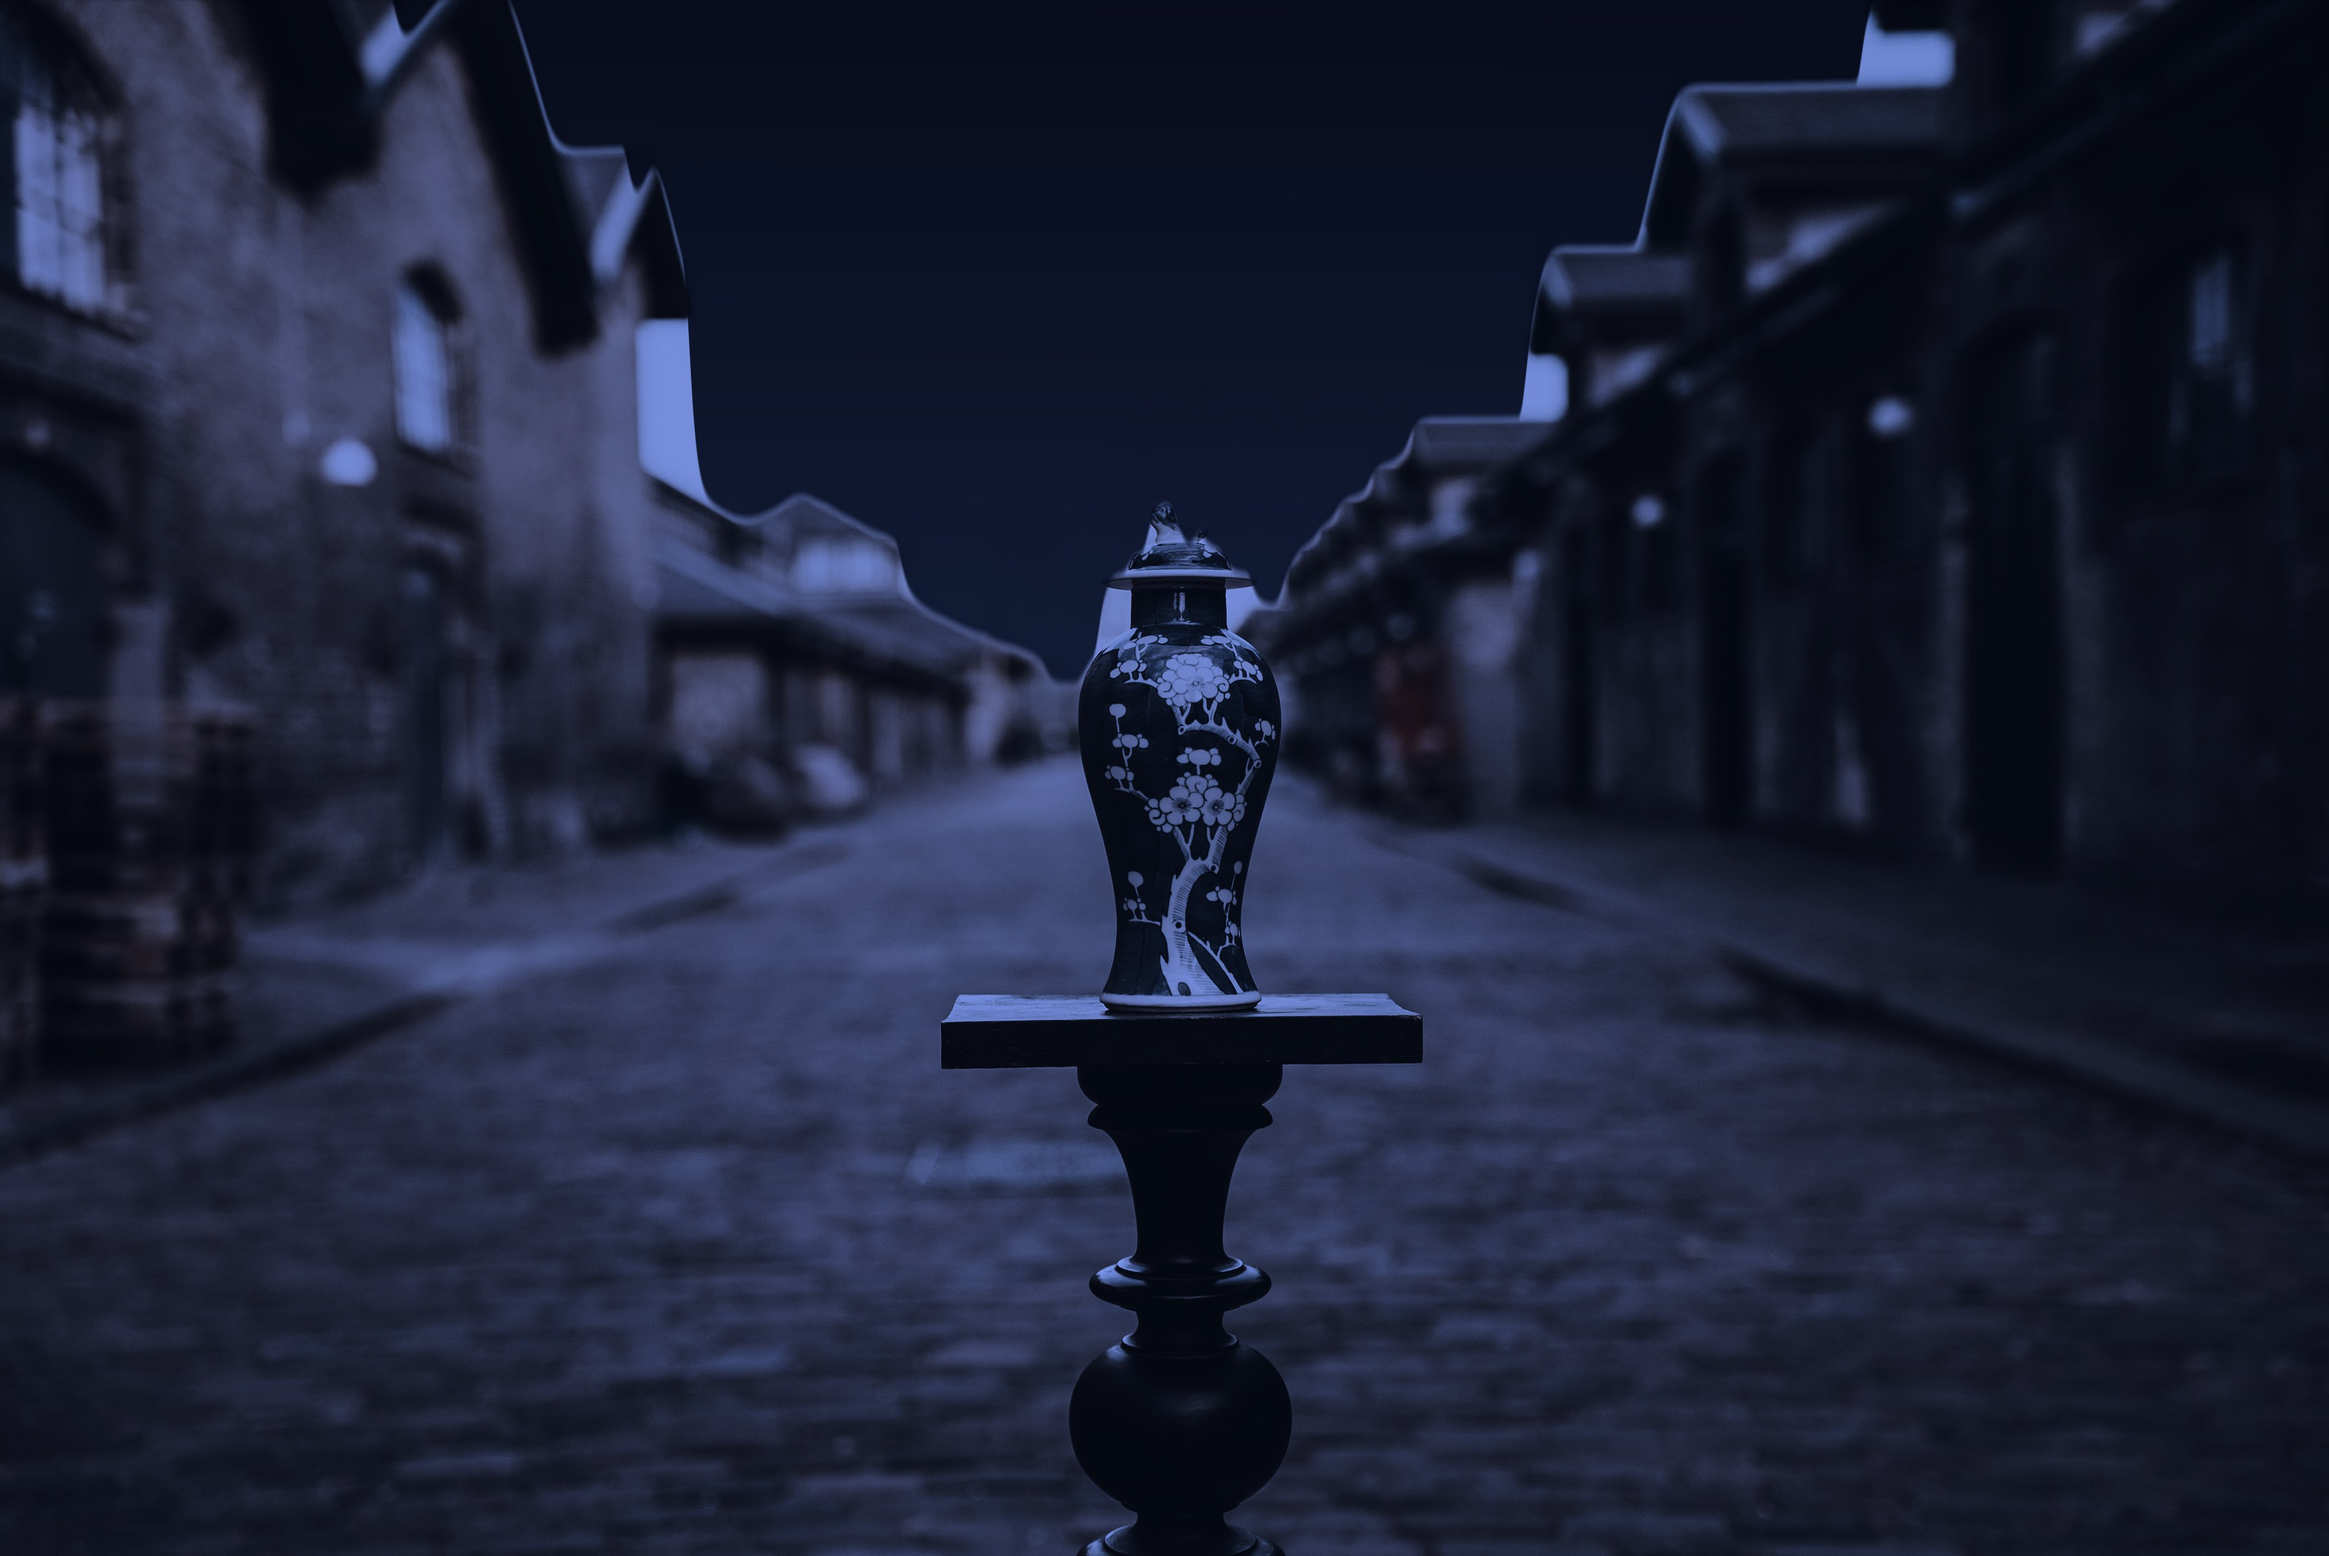
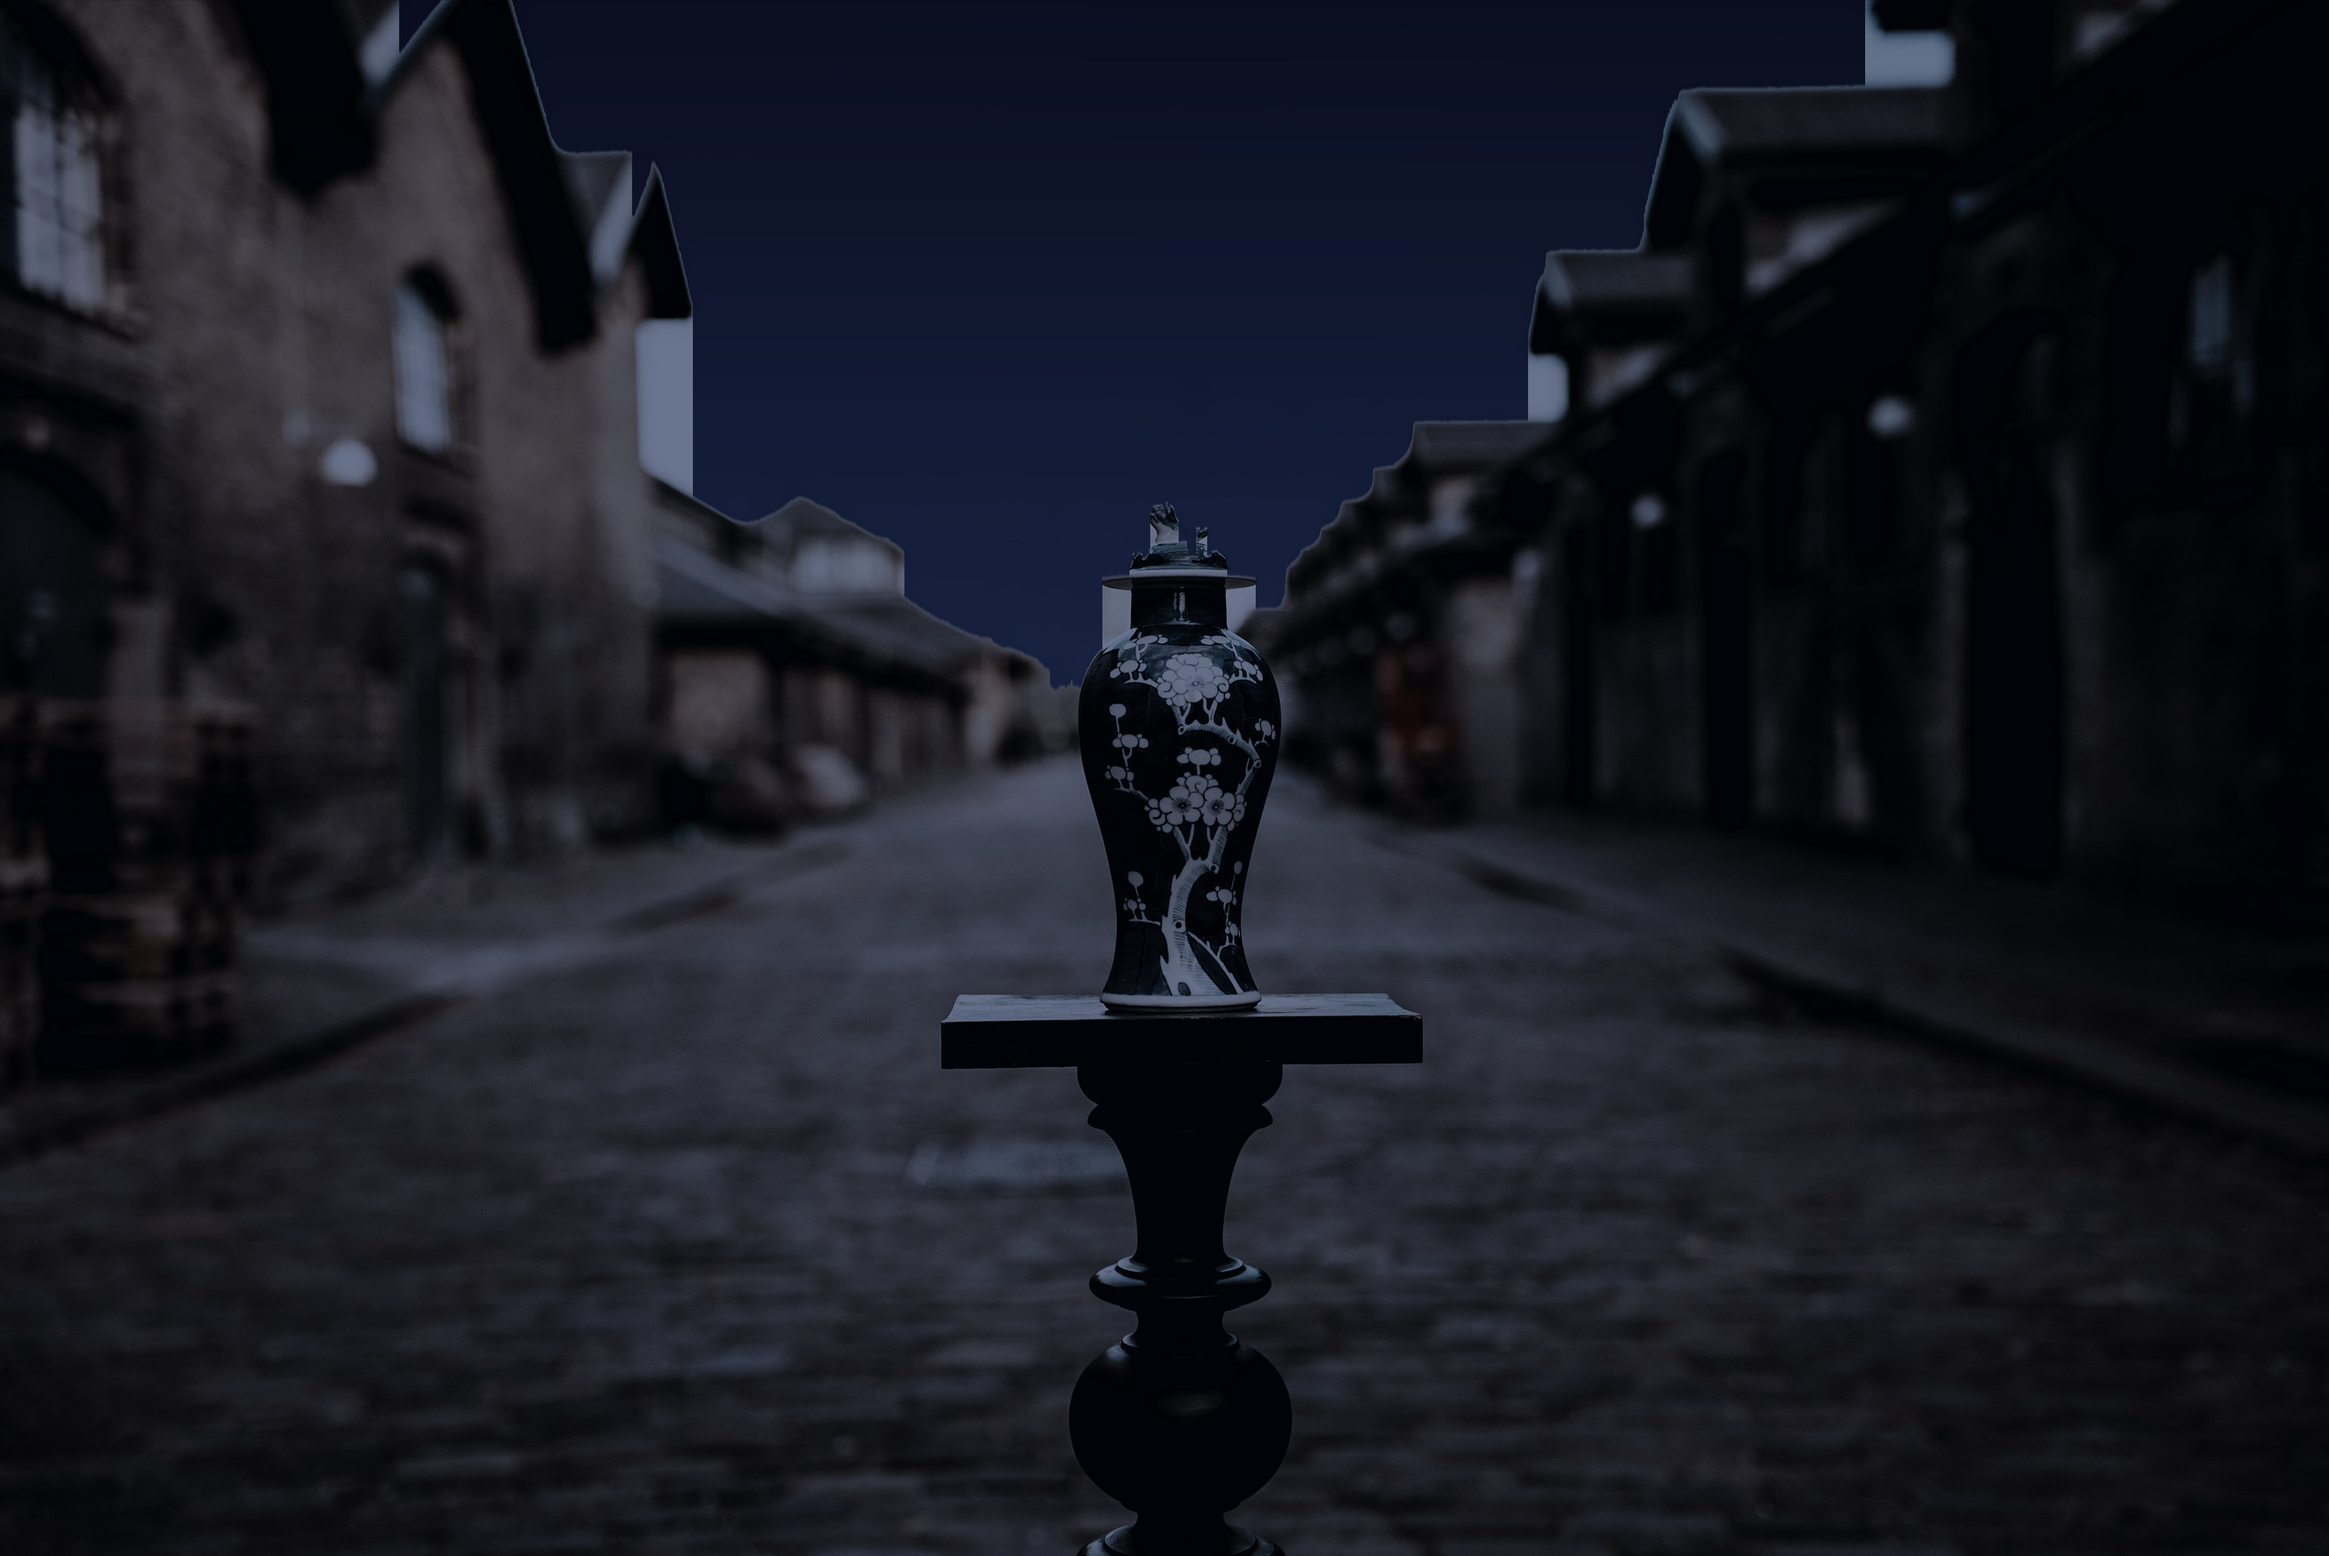
Realistic night grade: contrast-preserving exposure, crisp rooflines, subtle lid rattle

diff --git a/src/components/NightStage.tsx b/src/components/NightStage.tsx
@@ -6,7 +6,7 @@ import { useEffect, useLayoutEffect, useRef, useState } from 'react'
 // object-cover crop across every window size.
 const IMG_W = 3600
 const IMG_H = 2405
-const LID = { x0: 0.458, x1: 0.555, y0: 0.322, y1: 0.398 }
+const LID = { x0: 0.468, x1: 0.547, y0: 0.327, y1: 0.393 }
 const GLOW = { x: 0.5068, y: 0.389 }
 
 export default function NightStage({ onReady }: { onReady: () => void }) {
@@ -60,10 +60,12 @@ export default function NightStage({ onReady }: { onReady: () => void }) {
       if (el) {
         const t = performance.now() / 1000
         const amp = (0.6 + 0.4 * Math.sin(t * 0.8)) * (reduced ? 0.4 : 1)
-        const unit = Math.max(1.4, window.innerHeight * 0.0022)
-        const dy = amp * (Math.sin(t * 38) * 0.9 + Math.sin(t * 51 + 1.3) * 0.6) * unit
-        const dx = amp * Math.sin(t * 47 + 0.7) * 0.45 * unit
-        const rot = amp * Math.sin(t * 43) * 0.4
+        // Subtle rattle: fractions of a pixel to ~1px, hinged at the base of
+        // the lid so the top trembles more than the rim.
+        const unit = Math.max(0.5, window.innerHeight * 0.0008)
+        const dy = amp * (Math.sin(t * 38) * 0.8 + Math.sin(t * 51 + 1.3) * 0.5) * unit
+        const dx = amp * Math.sin(t * 47 + 0.7) * 0.35 * unit
+        const rot = amp * Math.sin(t * 43) * 0.22
         el.style.transform = `translate(${dx.toFixed(2)}px, ${dy.toFixed(2)}px) rotate(${rot.toFixed(2)}deg)`
       }
       raf = requestAnimationFrame(tick)
@@ -103,6 +105,7 @@ export default function NightStage({ onReady }: { onReady: () => void }) {
           top: layout.lidTop,
           width: layout.lidWidth,
           height: layout.lidHeight,
+          transformOrigin: '50% 92%',
         }}
         onLoad={bump}
         onError={bump}
